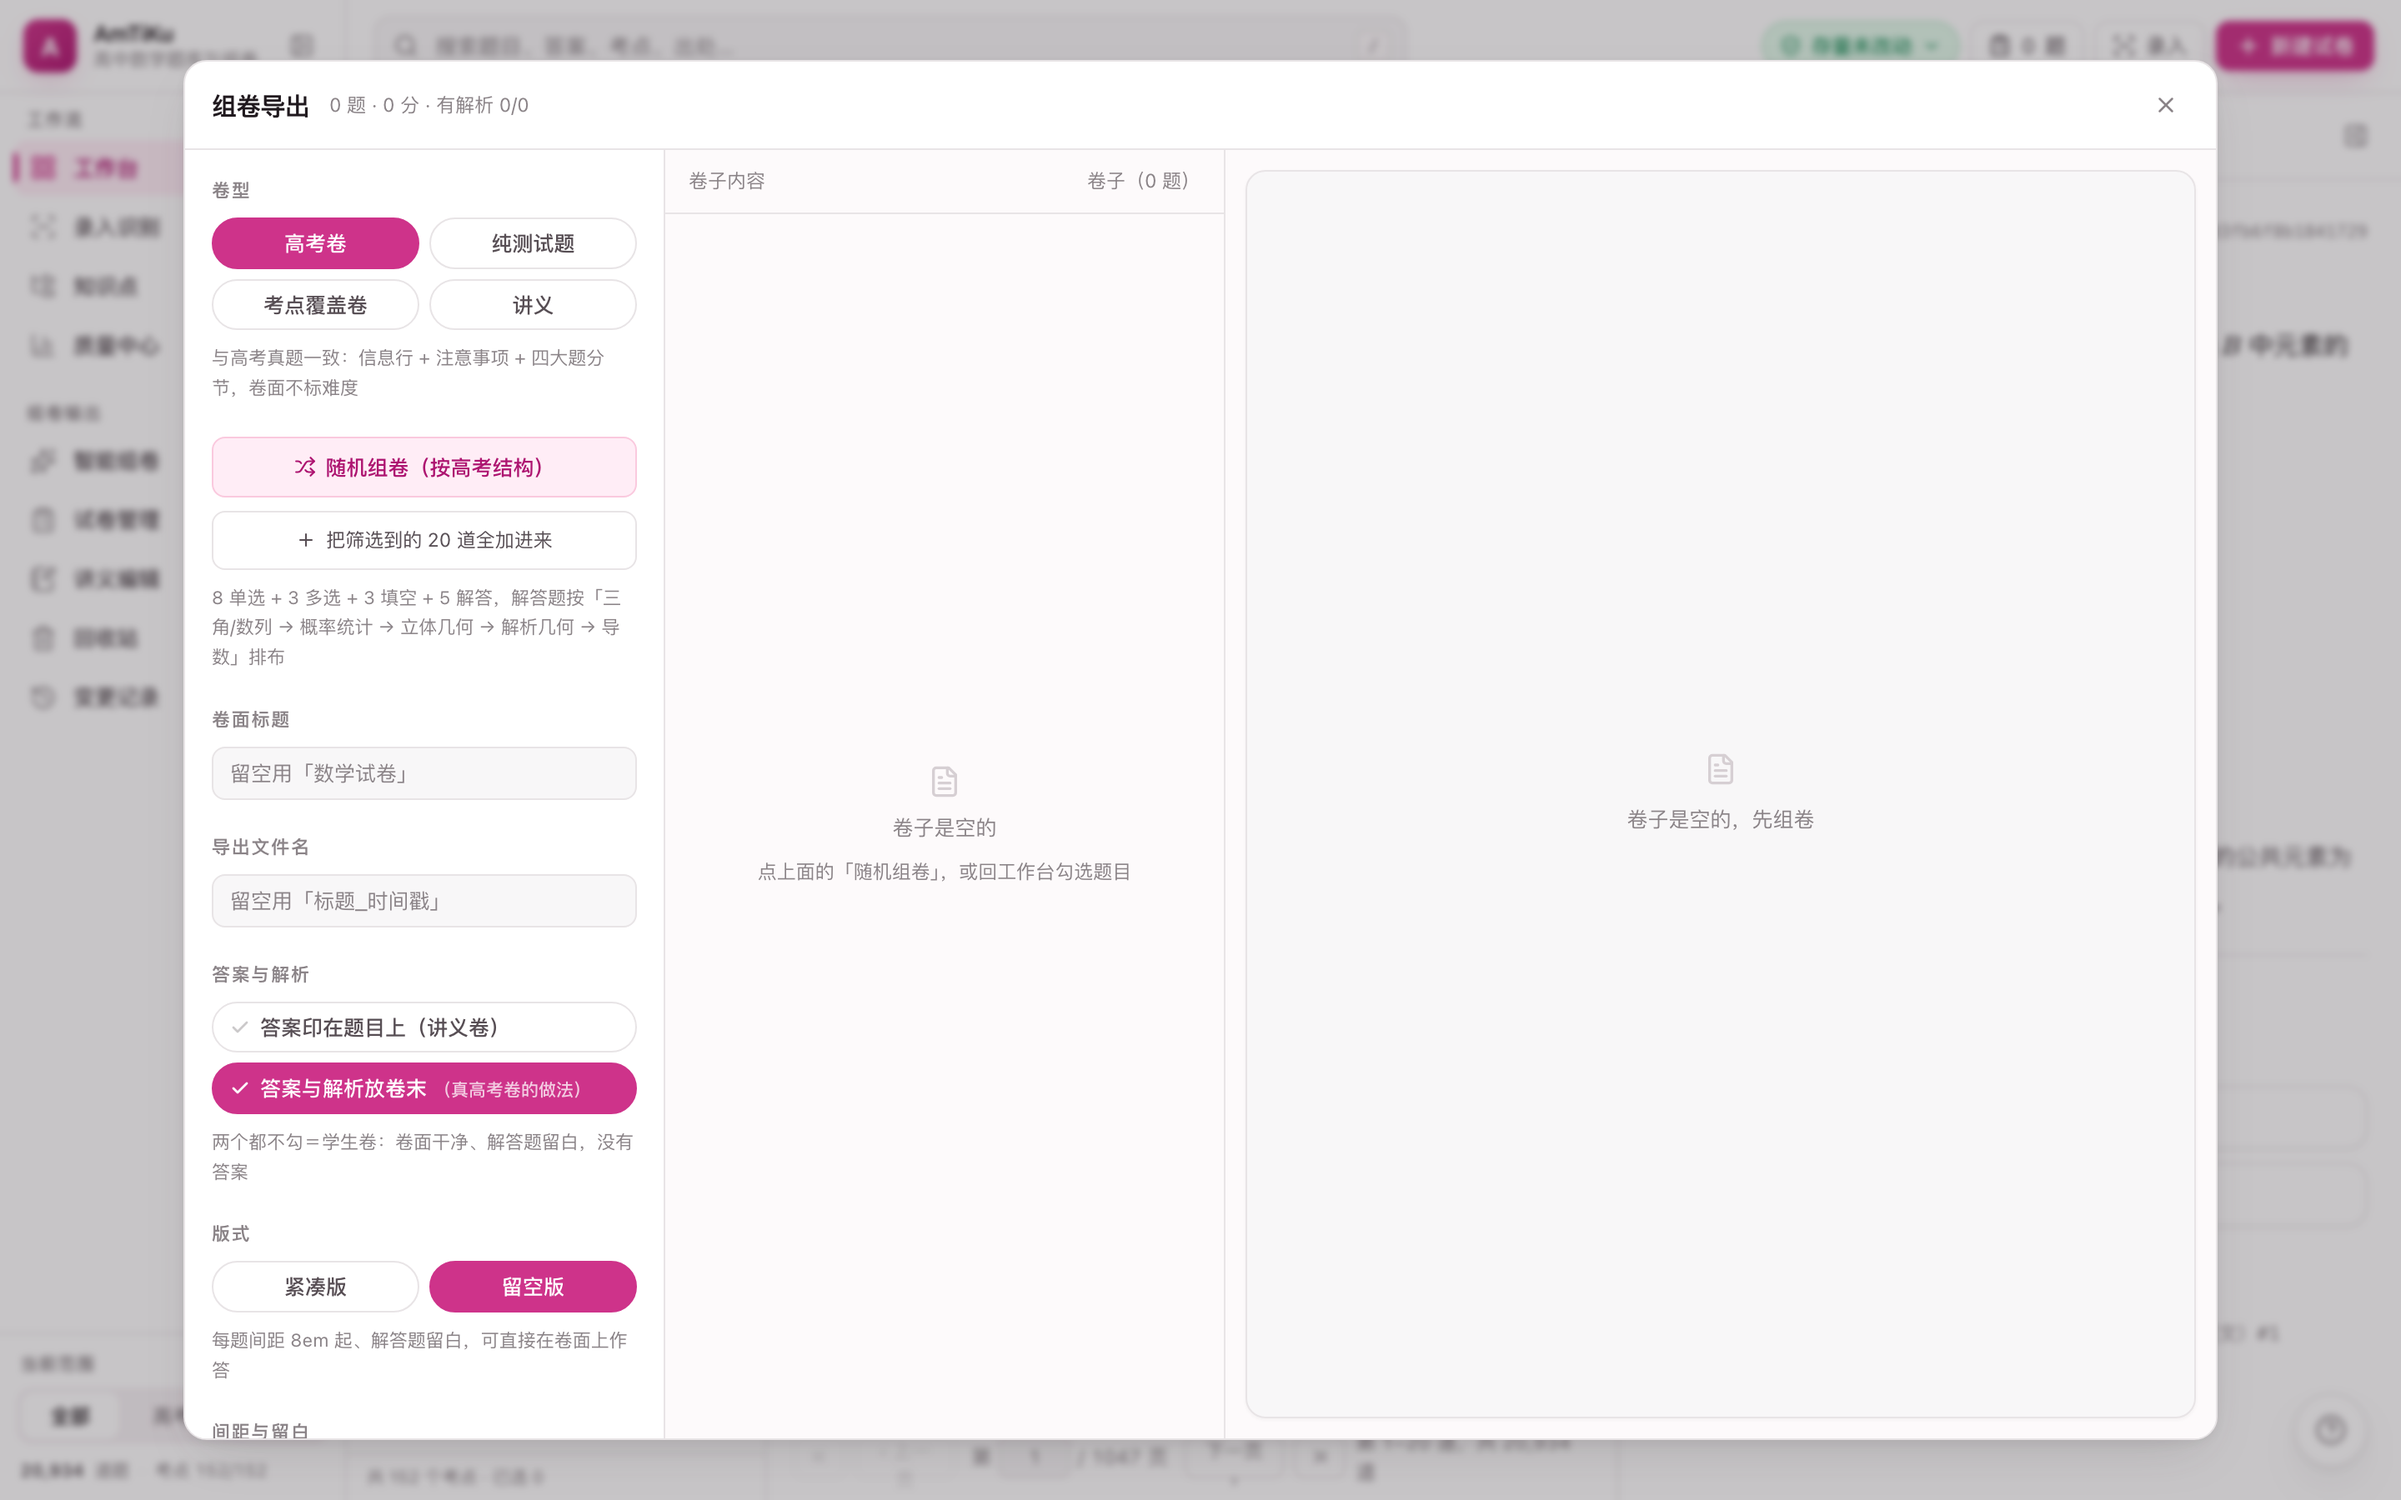
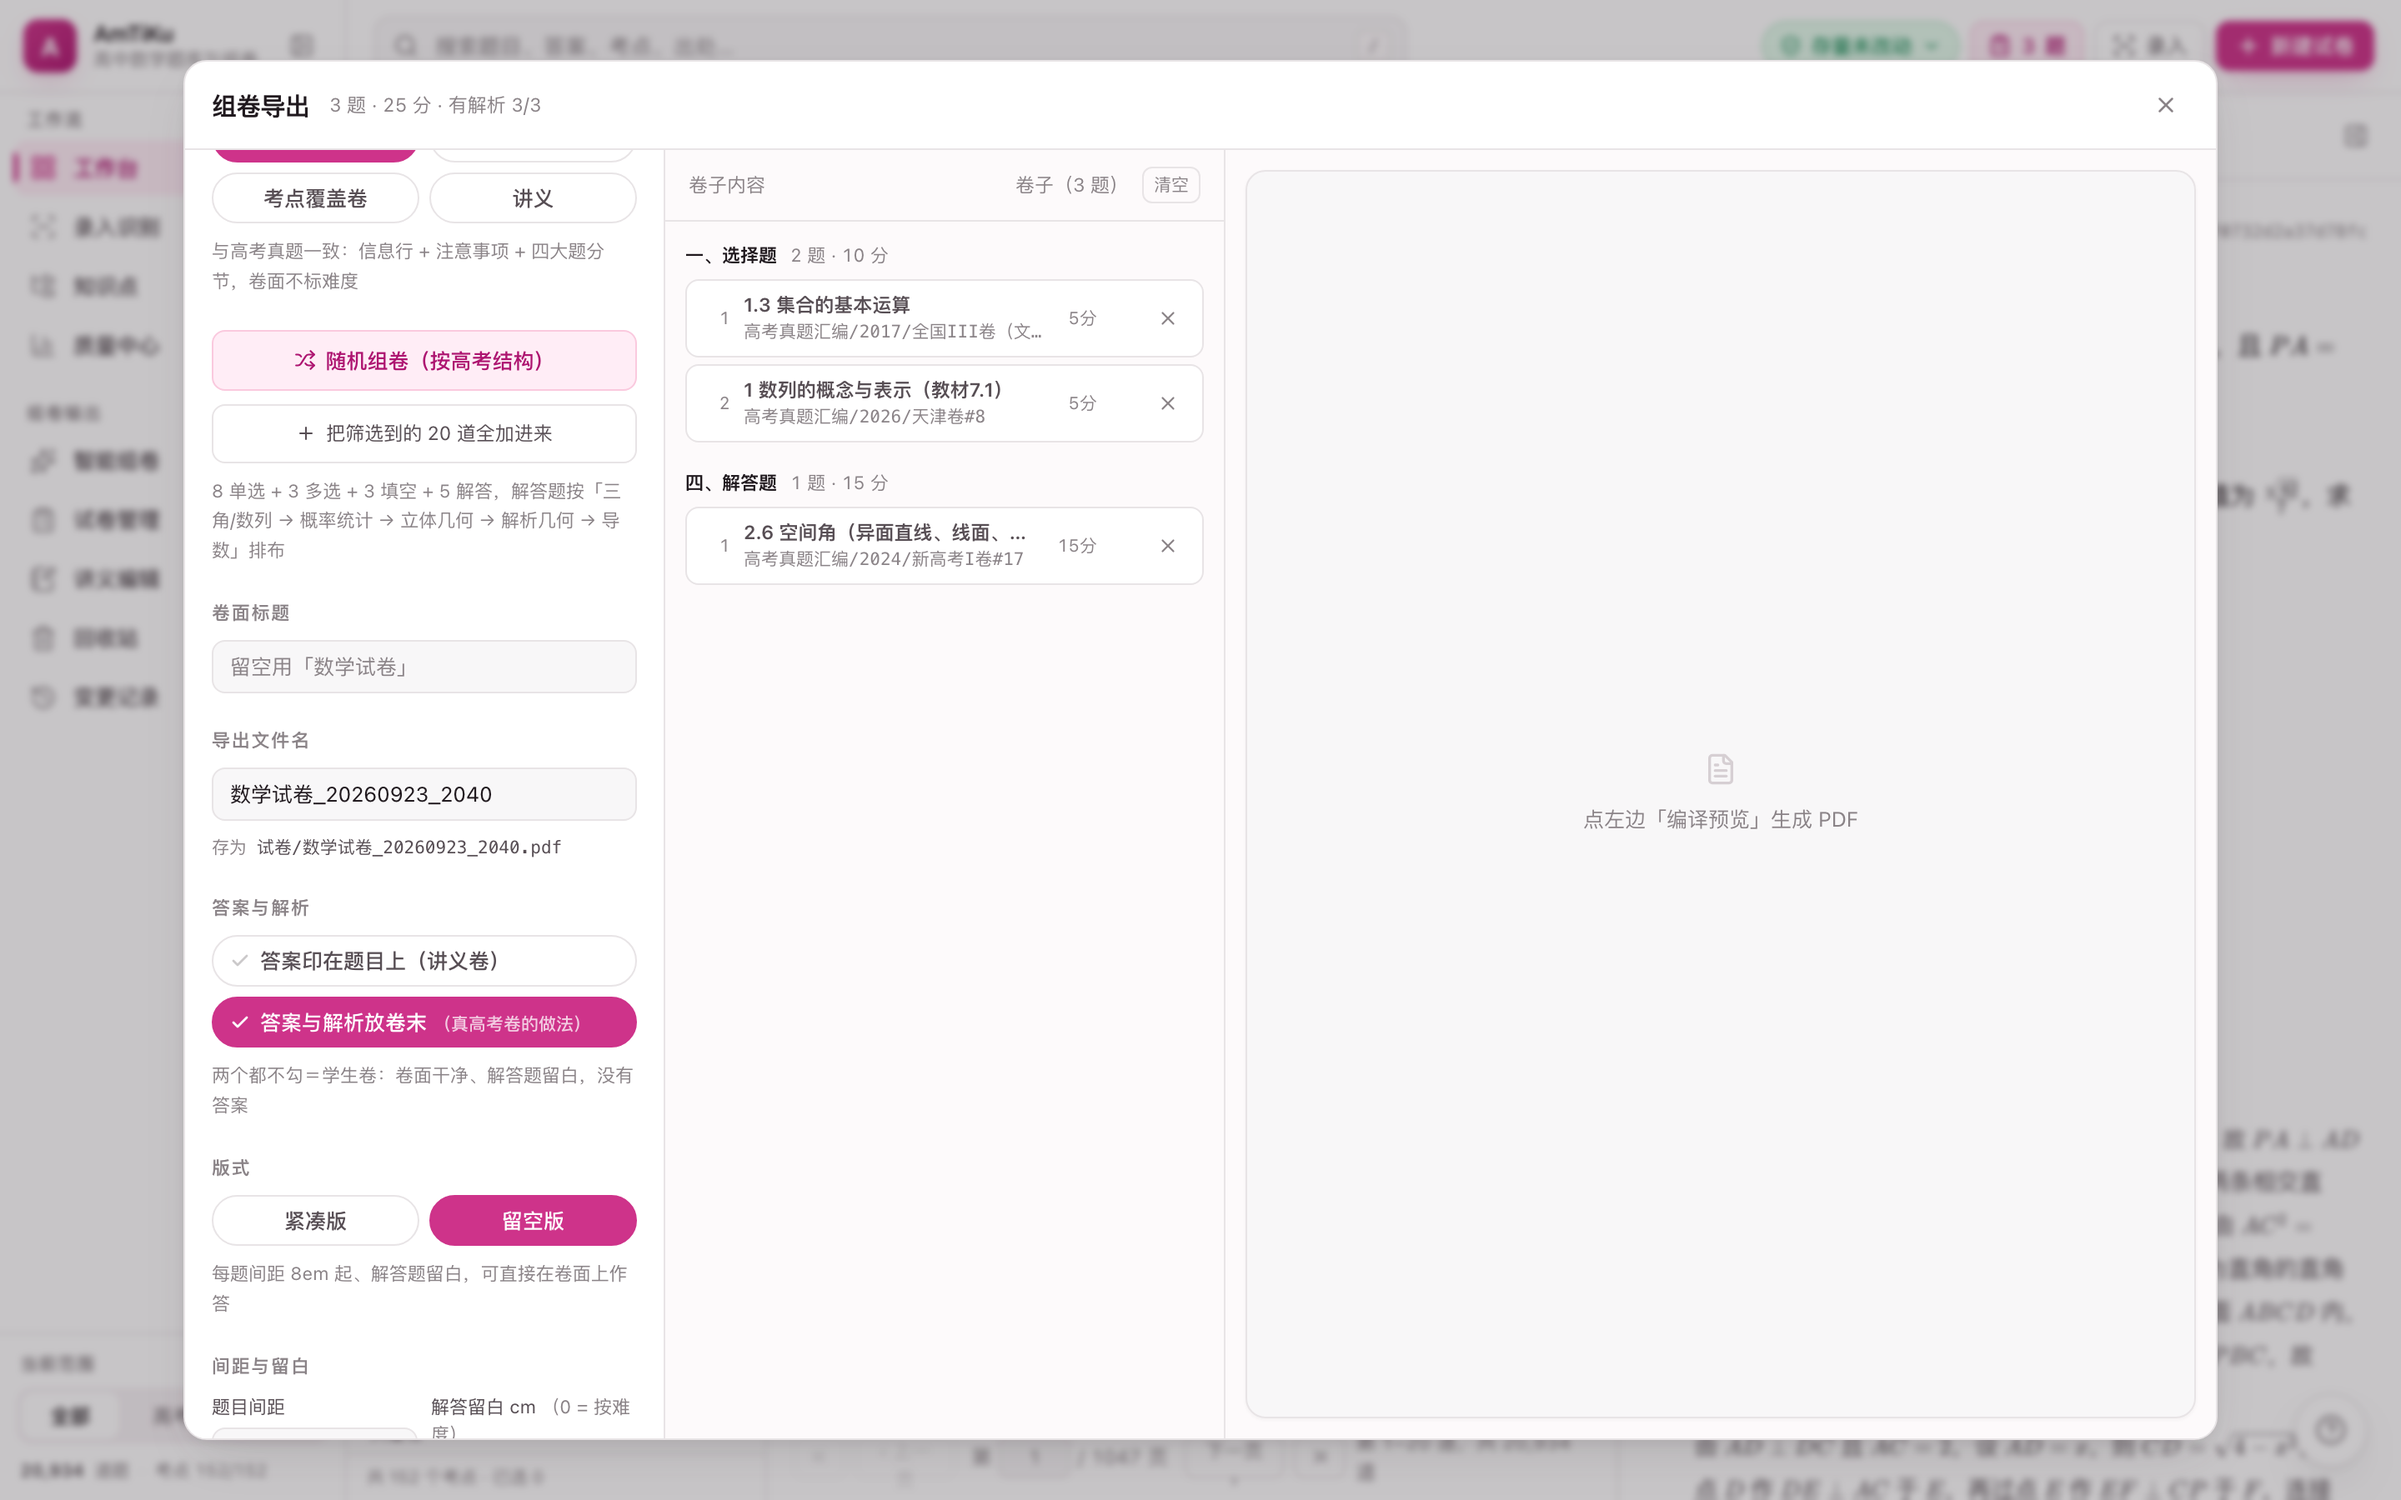
导出文件名：默认填好「卷面标题_时间戳」，并支持就地修改
以前「导出文件名」是个空框 + 一句 placeholder「留空用 标题_时间戳」，
等于让用户先自己猜个名字，或者干脆不管、导完再去 试卷/ 里翻文件。

现在：
- 打开时默认名已经填好（标题没写就用卷型的默认名，如 数学试卷_20260923_2040），
  想用就直接往下点，想改就当场在框里改。
- 卷面标题一改，文件名跟着改——默认名是派生的，就该跟着走。
- 但一旦手改过，程序就不再插手：再改标题也不会覆盖你写的名字，
  旁边多一个「已手改」标记和一个 ⟳ 按钮退回默认名。
- 输入框下面多一行「存为 试卷/xxx.pdf」，实时显示最终落盘的文件名，
  文件名里的 / \ : * 会被换成下划线（/ 还会被当子目录），现在点导出之前
  就看得见会被换成什么。
- 时间戳格式与 amti/export.py 的 %Y%m%d_%H%M 保持一致；点导出时若没手改过
  会刷成"此刻"，保证屏幕上显示的就是将要落盘的。
- 老规矩保留：把框清空，后端照旧兜底成 标题_时间戳。

验证（无头 Chrome 逐条读 DOM）：
- 打开 → 数学试卷_20260923_2040，存为 试卷/数学试卷_20260923_2040.pdf
- 改标题为「第14套武汉三调」→ 文件名跟着变成 第14套武汉三调_20260923_2040
- 手改成「高二/导数 专题: 终版」→ 原样保留，预览显示 高二_导数_专题_终版.pdf
- 手改后再改标题 → 文件名不变（没被覆盖）；点 ⟳ 回到默认名
- tsc + build 全绿；python3 amti.py accept 四层全绿（快照内容变化 0）

diff --git a/web/src/app/ExportPage.tsx b/web/src/app/ExportPage.tsx
@@ -41,6 +41,38 @@ function pickCls(on: boolean) {
     : 'border-border bg-surface text-ink-soft hover:border-brand-line hover:bg-brand-soft/50 hover:text-brand-ink'}`
 }
 
+type Mode = 'gaokao' | 'test' | 'coverage' | 'handout'
+
+/** 卷型对应的默认卷面标题。和上面那两个 placeholder 是同一套说法。 */
+const MODE_TITLE: Record<Mode, string> = {
+  gaokao: '数学试卷', test: '考点测试', coverage: '考点测试', handout: '讲义',
+}
+
+/** 时间戳 `20260923_2034`。
+ *
+ *  和后端 `amti/export.py` 的 `%Y%m%d_%H%M` **必须一致**——界面上的默认名
+ *  就是把后端那条「留空则用 标题_时间戳」的规则**提前显示出来**，
+ *  两边格式不一样的话，用户看到的和落盘的就是两个名字。
+ *  用本地时间：老师看的是自己表上的时间。 */
+function stamp(d = new Date()) {
+  const p = (n: number) => String(n).padStart(2, '0')
+  return `${d.getFullYear()}${p(d.getMonth() + 1)}${p(d.getDate())}_${p(d.getHours())}${p(d.getMinutes())}`
+}
+
+/** 默认文件名 = 「卷面标题（没写就用卷型的默认名）+ 时间戳」。 */
+function defaultOut(title: string, mode: Mode) {
+  return `${title.trim() || MODE_TITLE[mode]}_${stamp()}`
+}
+
+/** 后端那行 `re.sub(r"[^\w\u4e00-\u9fff\-]+", "_", out).strip("_")` 的**预览版**。
+ *
+ *  只用来在界面上提前显示「会存成什么名字」，**落盘的名字以后端为准**
+ *  （响应里的 `res.name` 才是真的）。之所以要在前端也算一遍：文件名里有
+ *  斜杠、冒号这类字符时，用户得在点导出**之前**就知道它会被换掉。 */
+function safeName(out: string) {
+  return out.replace(/[^\w\u4e00-\u9fff-]+/g, '_').replace(/^_+|_+$/g, '') || '试卷'
+}
+
 export default function ExportPage({ init, pool, from, filters, onClose }: {
   init: Q[]; pool: Q[]; from: string
   filters: Record<string, string>; onClose: () => void
@@ -48,8 +80,17 @@ export default function ExportPage({ init, pool, from, filters, onClose }: {
   const [list, setList] = useState<Q[]>(init)
   const poolN = pool.length
   const [title, setTitle] = useState('')
-  const [out, setOut] = useState('')
-  const [mode, setMode] = useState<'gaokao' | 'test' | 'coverage' | 'handout'>('gaokao')
+  // **导出文件名默认就填好**（卷面标题_时间戳），不用先去别处想名字。
+  // 老规矩「留空则用 标题_时间戳」还留着：清空这个框，后端照旧兜底。
+  const [out, setOut] = useState(() => defaultOut('', 'gaokao'))
+  /** 用户**手动改过**文件名没有。
+   *
+   *  没有 → 标题/卷型一变，文件名跟着变（默认名是派生的，就该跟着走）；
+   *  改过 → 一切以他写的为准，程序不再插手（只在旁边留一个「恢复默认」）。
+   *  这就是「给了默认值、又支持就地改」的分寸：默认值不能像个幽灵
+   *  一样在你改完之后又把你的输入覆盖掉。 */
+  const [outEdited, setOutEdited] = useState(false)
+  const [mode, setMode] = useState<Mode>('gaokao')
   // **答案与解析放不放卷末**。真高考卷是"卷面只有题，答案另附"，
   // 所以留空版（学生做）时默认勾上，讲义版（要看解析）时自动取消。
   const [ansAtEnd, setAnsAtEnd] = useState(true)
@@ -82,6 +123,11 @@ export default function ExportPage({ init, pool, from, filters, onClose }: {
   const answered = list.filter((q) => q.flags['解析']).length
   const score = list.reduce((s, q) => s + (SCORE[q.type] || 0), 0)
 
+  // 卷面标题或卷型一变，默认文件名跟着变（前提是用户没自己改过，见 outEdited）
+  useEffect(() => {
+    if (!outEdited) setOut(defaultOut(title, mode))
+  }, [title, mode, outEdited])
+
   /**
    * 版式预设。两个数是**起点**，选完还能在上面单独调。
    *
@@ -101,9 +147,15 @@ export default function ExportPage({ init, pool, from, filters, onClose }: {
     setBusy(true); setBusySince(Date.now()); setErr('')
     const keys = list.map((q) => q.key)
 
+    // 没手改过文件名 → 把时间戳刷成「此刻」再导出。面板开着十几分钟才点导出，
+    // 不该落一个十几分钟前的名字。刷新的同时更新输入框，
+    // 保证**屏幕上显示的就是将要落盘的**。
+    const outNow = outEdited ? out : defaultOut(title, mode)
+    if (!outEdited) setOut(outNow)
+
     // 幻灯片讲义走独立端点（Slidev 渲染），其余三种走 LaTeX 导出
     const call = api.export({
-          title, out, mode, show_answers: showAns, bottom_sep: sep,
+          title, out: outNow, mode, show_answers: showAns, bottom_sep: sep,
           problem_blank_cm: Number(blank) || 0, compile: true,
           keys, answers_at_end: ansAtEnd, handout_font: handoutFont,
         })
@@ -278,8 +330,33 @@ export default function ExportPage({ init, pool, from, filters, onClose }: {
             </Group>
 
             <Group title="导出文件名">
-              <input value={out} onChange={(e) => setOut(e.target.value)}
-                placeholder="留空用「标题_时间戳」" className={INPUT} />
+              {/* **默认就填好，随时可以就地改。**
+                  以前这里是个空框 + 一句 placeholder「留空用 标题_时间戳」，
+                  等于让用户先自己猜一个名字，或者干脆不管、导完再去找文件。
+                  现在默认名直接摆在这儿：想用就往下点，想改就当场打字。 */}
+              <div className="flex items-center gap-1.5">
+                <input value={out}
+                  onChange={(e) => { setOut(e.target.value); setOutEdited(true) }}
+                  placeholder={`留空用「${MODE_TITLE[mode]}_时间戳」`}
+                  className={`${INPUT} flex-1`} />
+                {outEdited && (
+                  <button onClick={() => { setOutEdited(false); setOut(defaultOut(title, mode)) }}
+                    title="改回「卷面标题_时间戳」的默认名"
+                    className="press icon-btn h-8 w-8 shrink-0 border border-border">
+                    <RefreshCw size={13} />
+                  </button>
+                )}
+              </div>
+              {/* 文件名里的 `/ \ : *` 这些字符后端会换成下划线——**提前告诉他**，
+                  不要等导完在文件夹里找不到。斜杠还会被当成子目录。 */}
+              <div className="flex items-baseline gap-1.5 text-[10.5px] text-ink-faint">
+                <span className="shrink-0">存为</span>
+                <code className="min-w-0 flex-1 truncate font-mono text-ink-soft"
+                  title={`试卷/${safeName(out)}.pdf`}>
+                  试卷/{safeName(out)}.pdf
+                </code>
+                {outEdited && <span className="shrink-0 text-brand-ink">已手改</span>}
+              </div>
             </Group>
 
             {/* 讲义模式说明：把「讲义印成什么样」一次讲清楚 */}

diff --git a/CHANGELOG.md b/CHANGELOG.md
@@ -5,6 +5,40 @@
 
 ---
 
+## v1.6.2 · 导出文件名默认填好「试卷_时间戳」，可就地改（2026-09-23）
+
+**改动**：导出弹层的「导出文件名」以前是个**空框**，只有一句 placeholder
+「留空用 标题_时间戳」——等于让用户先自己猜一个名字，或者干脆不管，导完再去
+`试卷/` 里翻文件。现在：
+
+- 打开时**默认名已经填好**：`卷面标题_时间戳`（标题没写就用卷型的默认名，
+  如 `数学试卷_20260923_2040`）。想用就直接往下点，想改就当场在框里改。
+- **卷面标题一改，文件名跟着改**（默认名是派生出来的，就该跟着走）。
+- 但**一旦你手改过，程序就不再插手**——再改标题也不会覆盖你写的名字，
+  旁边多一个「已手改」标记和一个 ⟳ 按钮可以退回默认名。
+  默认值不能像个幽灵，在你改完之后又把你的输入吃掉。
+- 输入框下面多一行「**存为** `试卷/xxx.pdf`」，实时显示最终落盘的文件名。
+  文件名里的 `/ \ : *` 这些字符后端会换成下划线（`/` 还会被当成子目录），
+  现在**在点导出之前**就看得见会被换成什么，不用导完再去文件夹里找。
+- 时间戳在后端 `amti/export.py` 里是 `%Y%m%d_%H%M`，前端这份**格式必须一致**；
+  另外点导出时若用户没手改过，会把时间戳刷成"此刻"，保证**屏幕上显示的就是
+  将要落盘的**。
+- 老规矩保留：把框清空，后端照旧兜底成 `标题_时间戳`。
+
+**验证**（无头 Chrome 实跑，逐条读过 DOM）：
+| 动作 | 结果 |
+|---|---|
+| 打开导出 | `数学试卷_20260923_2040` · 存为 `试卷/数学试卷_20260923_2040.pdf` |
+| 改卷面标题为「第14套武汉三调」 | 文件名变成 `第14套武汉三调_20260923_2040`（跟着走） |
+| 手改成 `高二/导数 专题: 终版` | 保留原样，预览显示 `试卷/高二_导数_专题_终版.pdf` + 「已手改」 |
+| 手改后再改标题为「完全不同的标题」 | 文件名**不变**（没有被覆盖） |
+| 点 ⟳ 恢复默认 | 回到 `完全不同的标题_20260923_2040`，标记消失 |
+
+`npx tsc --noEmit --noUnusedLocals --noUnusedParameters && npm run build` 全绿；
+`docs/screenshots/05-export.png` 重拍（这次卷子里有题，顺带把文件名那一行拍进去）。
+
+---
+
 ## v1.6.1 · 修：全局命令 `AmTiKu` 在任意目录下报「./启动.sh: No such file or directory」（2026-09-23）
 
 **现象**：在 `~` 下敲 `AmTiKu qidong`（或 `AmTiKu 启动`）直接报
